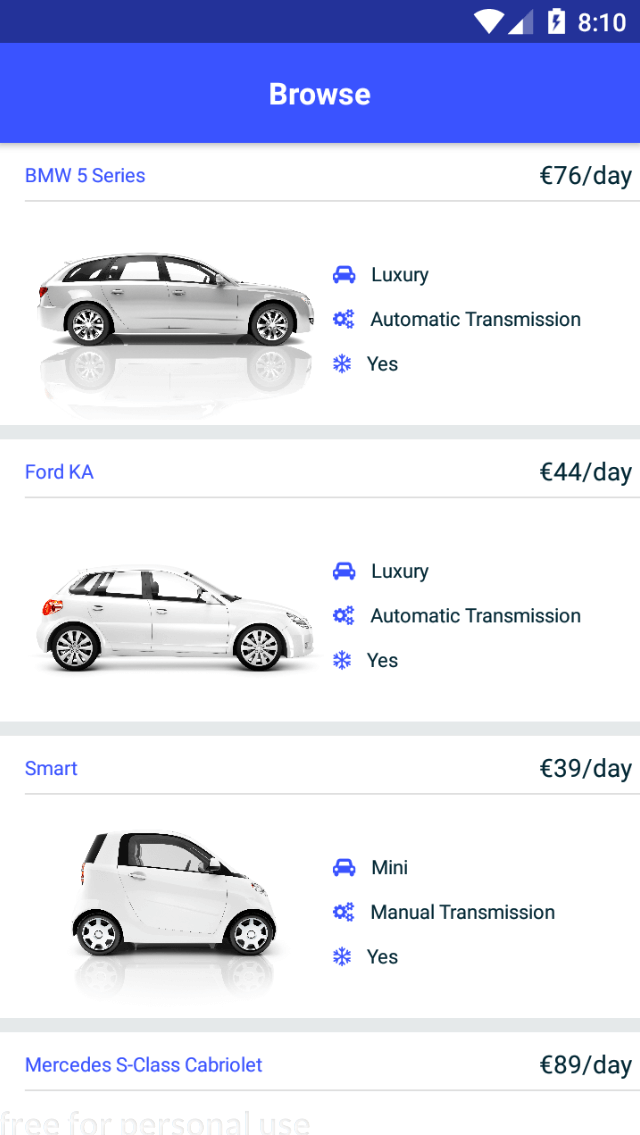
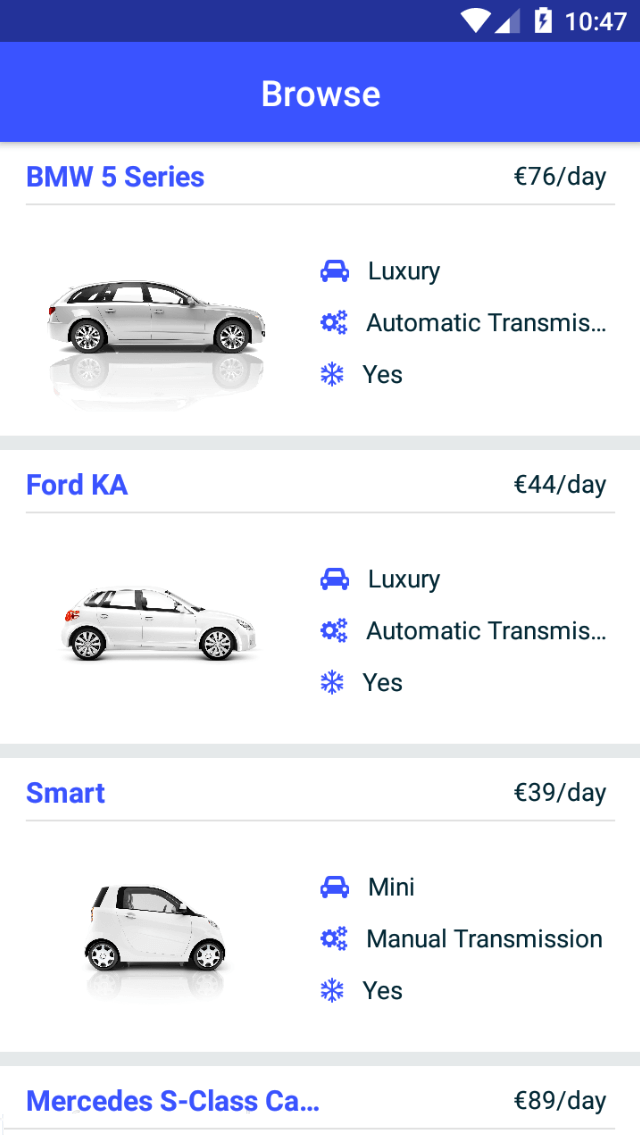
After UX Review (#54)
TP - http://teampulse.telerik.com/view#item/346700

diff --git a/cars/car-detail-edit-page/_car-detail-edit-page.scss b/cars/car-detail-edit-page/_car-detail-edit-page.scss
@@ -2,24 +2,13 @@
 @import '../../app-variables';
 
 // Custom styles
-$text-primary-font-size: $base-font-size + 2;
 .car-list {
-    font-size: $base-font-size;
 
     .car-list-even,
     .car-list-odd {
         padding: 10 15;
         border-bottom-width: $border-width;
         border-color: $blue-20;
-        font-size: $base-font-size;
-
-        label {
-          font-size: $base-font-size;  
-        }
-
-        .text-primary {
-           font-size: $text-primary-font-size; 
-        }
     }
 
     .car-list-odd {
@@ -44,7 +33,8 @@ $text-primary-font-size: $base-font-size + 2;
 .thumb {
     background-size: cover;
     background-repeat: no-repeat;
-    font-size: 20em;
+    font-size: 25;
+    font-weight: bold;
     
     .thumb-add {
         background-color: transparent;

diff --git a/cars/_cars-list-page.scss b/cars/_cars-list-page.scss
@@ -9,7 +9,7 @@
         background-color: $blue-10;
 
         .list-group-item-content {
-            padding: 8 0 4 15;
+            padding: 8 15 4 15;
             background-color: $background-light;
         }
 

diff --git a/cars/list-selector-modal-page/_list-selector-modal-page.scss b/cars/list-selector-modal-page/_list-selector-modal-page.scss
@@ -8,7 +8,6 @@
     
     .list-modal-item {
         vertical-align: center;
-        font-size: $base-font-size;
-        margin-bottom: 5;
+        margin-bottom: 10;
     }
 }

diff --git a/_app-common.scss b/_app-common.scss
@@ -31,9 +31,3 @@ Slider {
 .text-secondary {
     color: $blue-50;
 }
-
-.page-content {
-    label {
-        font-size: $base-font-size;
-    }
-}
